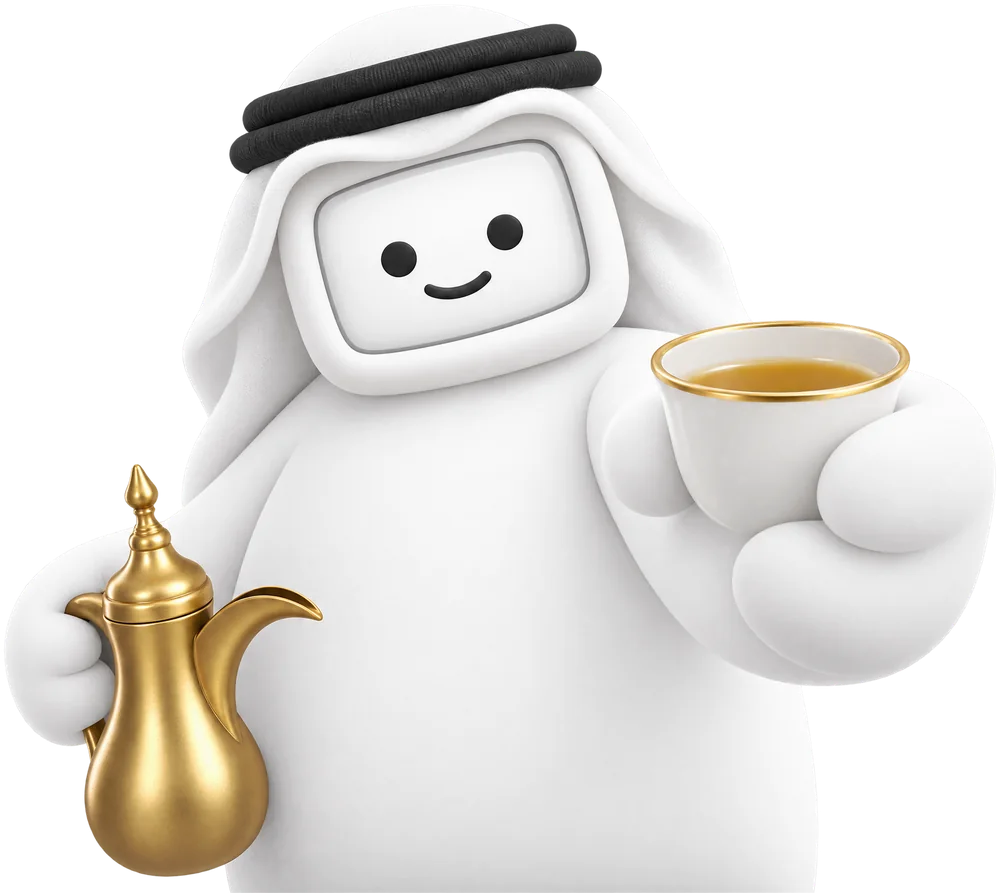
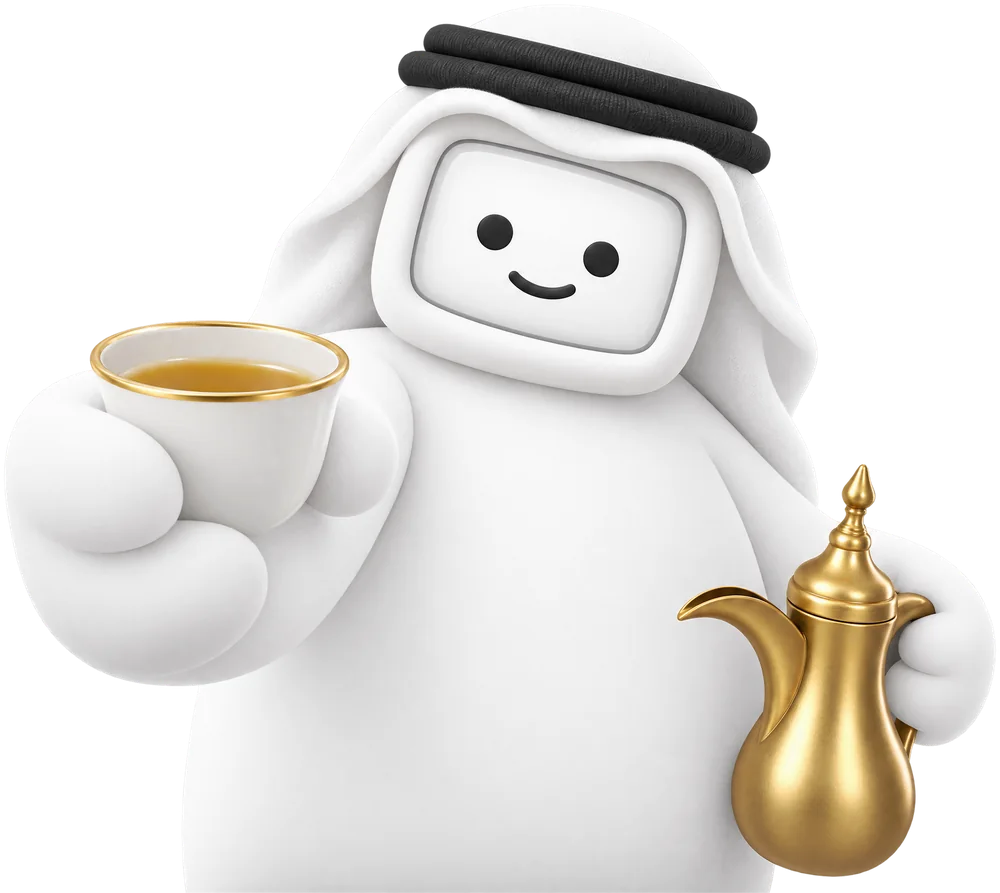
Why section: coffee served with the right hand
The mascot now offers the finjan with its right hand and holds the dallah
in its left (the image is mirrored from the original export), and the
steam follows the cup.

Claude-Session: https://claude.ai/code/session_01HEToeVJCXjzhD9Jpw8sRiS

diff --git a/src/components/why/Why.tsx b/src/components/why/Why.tsx
@@ -39,7 +39,8 @@ export function Why() {
 
 /*
  * الشخصية طالعة من «شاشة» غامقة: نص جسمها اللي تحت داخلها، وراسها والفنجال طالعين فوقها على الصفحة.
- * المواضع من الصورة نفسها (1000×893): الجسم من 23٪ لين 81٪ بالعرض، وحافة الفنجال عند 78٪ بالعرض و36٪ بالطول.
+ * الفنجال باليمين (القهوة تنقدّم باليمين)، فالصورة معكوسة: الفنجال يسار الصورة والدلّة يمينها.
+ * المواضع من الصورة نفسها (1000×893): الجسم من 19٪ لين 77٪ بالعرض، وحافة الفنجال عند 22٪ بالعرض و36٪ بالطول.
  * لما تنزل للقسم الشخصية تكبر شوي كأنها تقرّب منك (popout في index.css)، والبخار يطلع من الفنجال.
  * في اللابتوب حافة الشاشة الغامقة على حافة المحتوى اليسار (مقابل الكلام اللي على اليمين)، فنزيحها 2٪ قد هامش الشاشة داخل الصورة.
  */
@@ -59,7 +60,7 @@ function Coffee() {
           decoding="async"
           className="relative size-full drop-shadow-[0_28px_36px_rgb(17_19_24/0.22)]"
         />
-        <svg aria-hidden viewBox="0 0 40 60" className="steam absolute left-[78%] top-[15%] w-[11%] -translate-x-1/2" fill="none" stroke="#9298a6" strokeWidth="2.6" strokeLinecap="round">
+        <svg aria-hidden viewBox="0 0 40 60" className="steam absolute left-[22%] top-[15%] w-[11%] -translate-x-1/2" fill="none" stroke="#9298a6" strokeWidth="2.6" strokeLinecap="round">
           <path d="M11 58c-5-8 5-13 0-23s5-15 1-25" />
           <path d="M20 58c-5-8 5-13 0-23s5-15 1-25" />
           <path d="M29 58c-5-8 5-13 0-23s5-15 1-25" />
